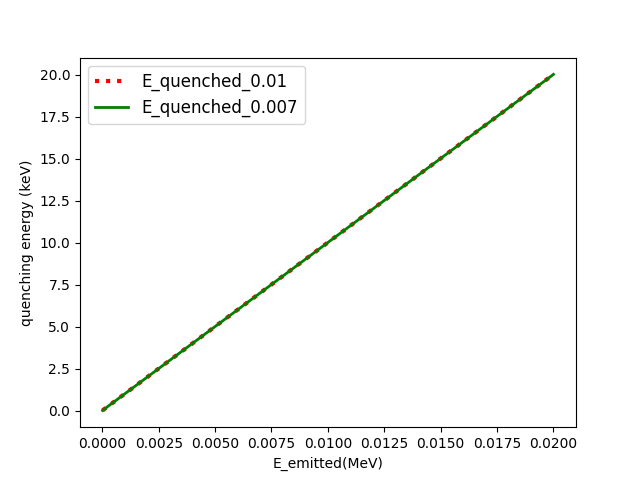
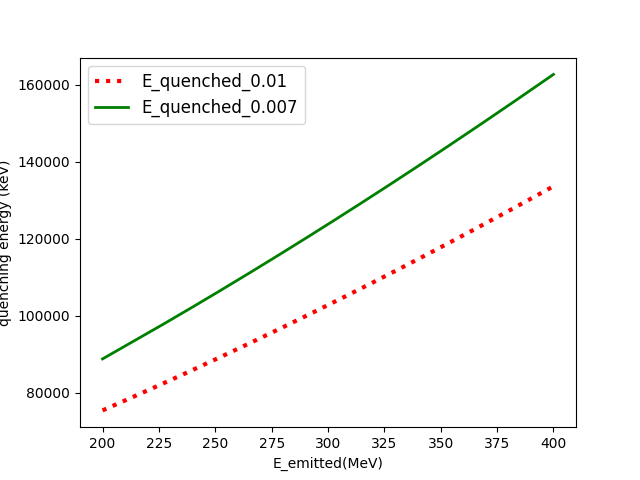
test

diff --git a/MCTDCRcode/TDCR_model_lib.py b/MCTDCRcode/TDCR_model_lib.py
@@ -300,7 +300,7 @@ def readBetaShape(rad,mode,trans):
 
 
 def E_quench_e(e,kB): #MeV
-    e_dis = np.linspace(0,e,1000)
+    e_dis = np.linspace(0,e,10000)
     delta = e_dis[2] - e_dis[1]
     q = 0
     for i in e_dis:
@@ -310,12 +310,12 @@ def E_quench_e(e,kB): #MeV
 s1 = []
 s2 = []
 s3 = []
-for i in np.linspace(1e-5,2e-2,1000):
+x = np.linspace(2e2,4e2,200)
+for i in x:
     s1.append(E_quench_e(i,kB=0.007)*1e3)
     s2.append(E_quench_e(i,kB=0.01)*1e3)
     #s3.append(E_quench_e(i,kB=0.014)*1e3)
 
-x = np.linspace(1e-5,2e-2,1000)
 plt.plot(x,s2,label='E_quenched_0.01',ls=':',color='red',lw=3)
 plt.plot(x,s1,label='E_quenched_0.007',color='green',lw=2)
 #plt.plot(x,s3,label='E_quenched_0.014')
